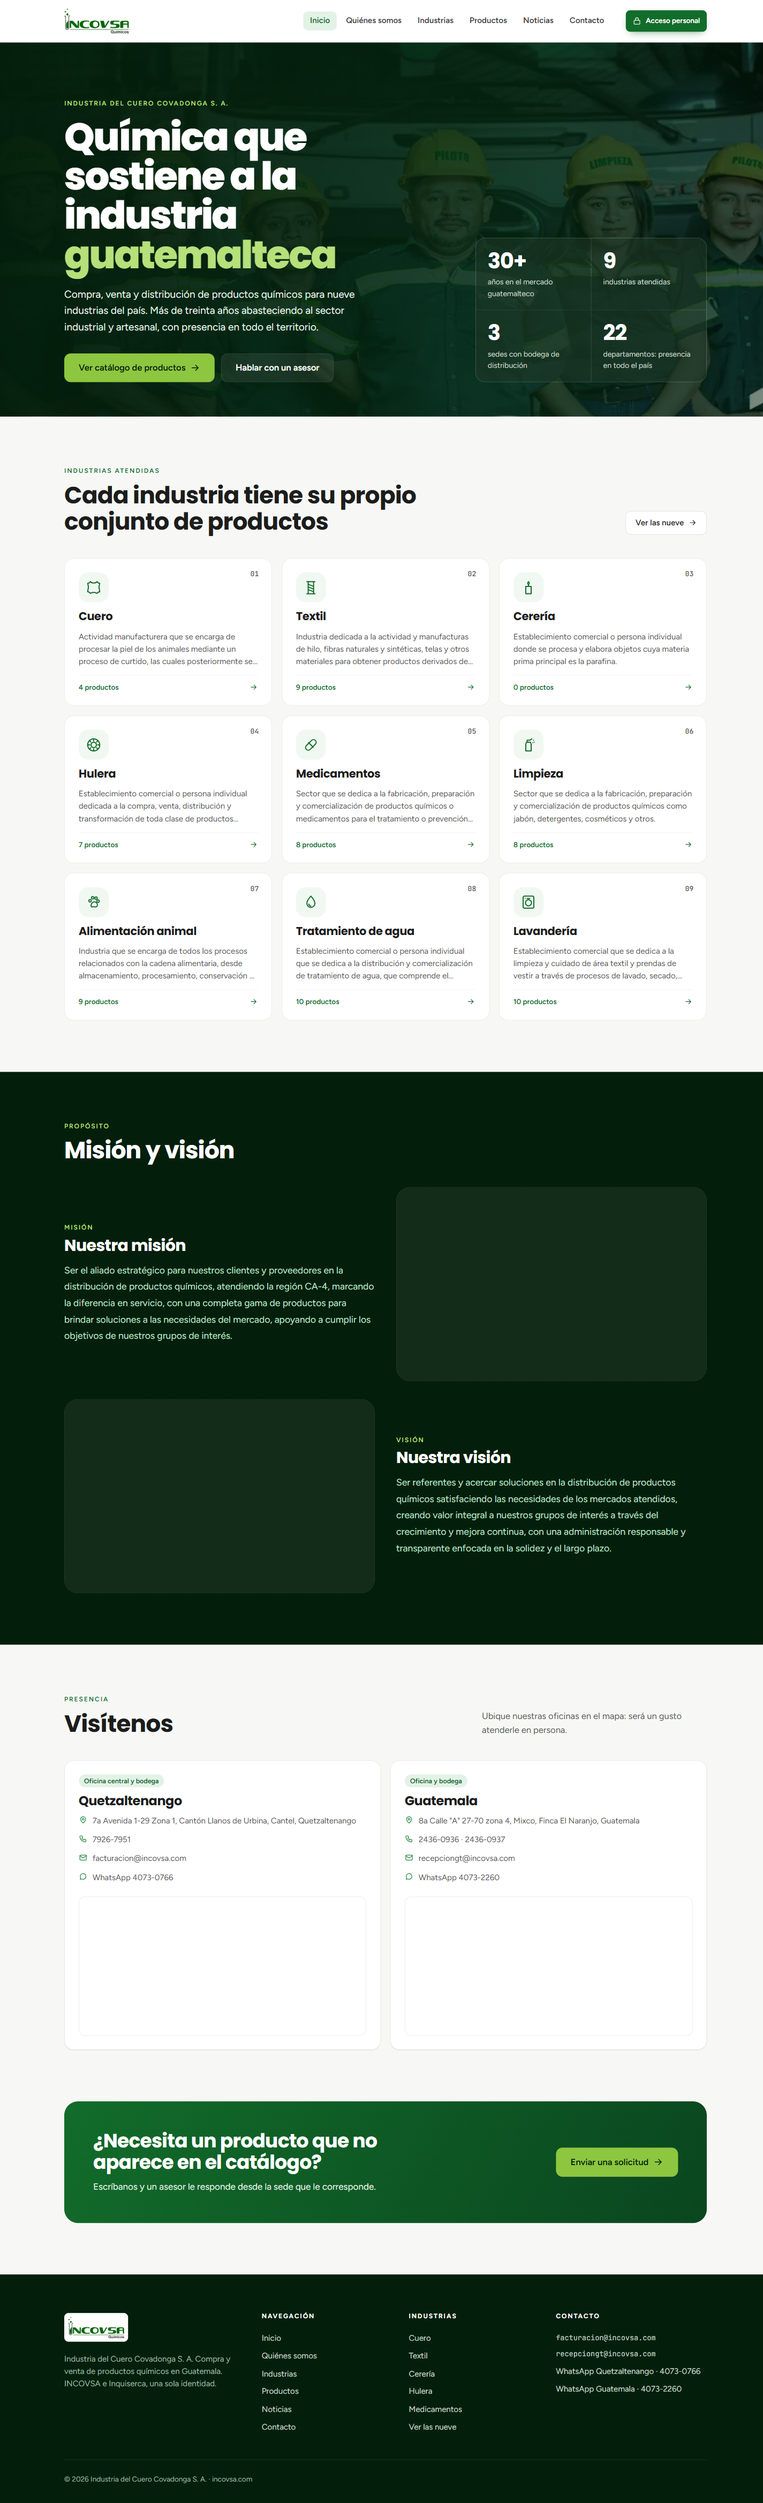
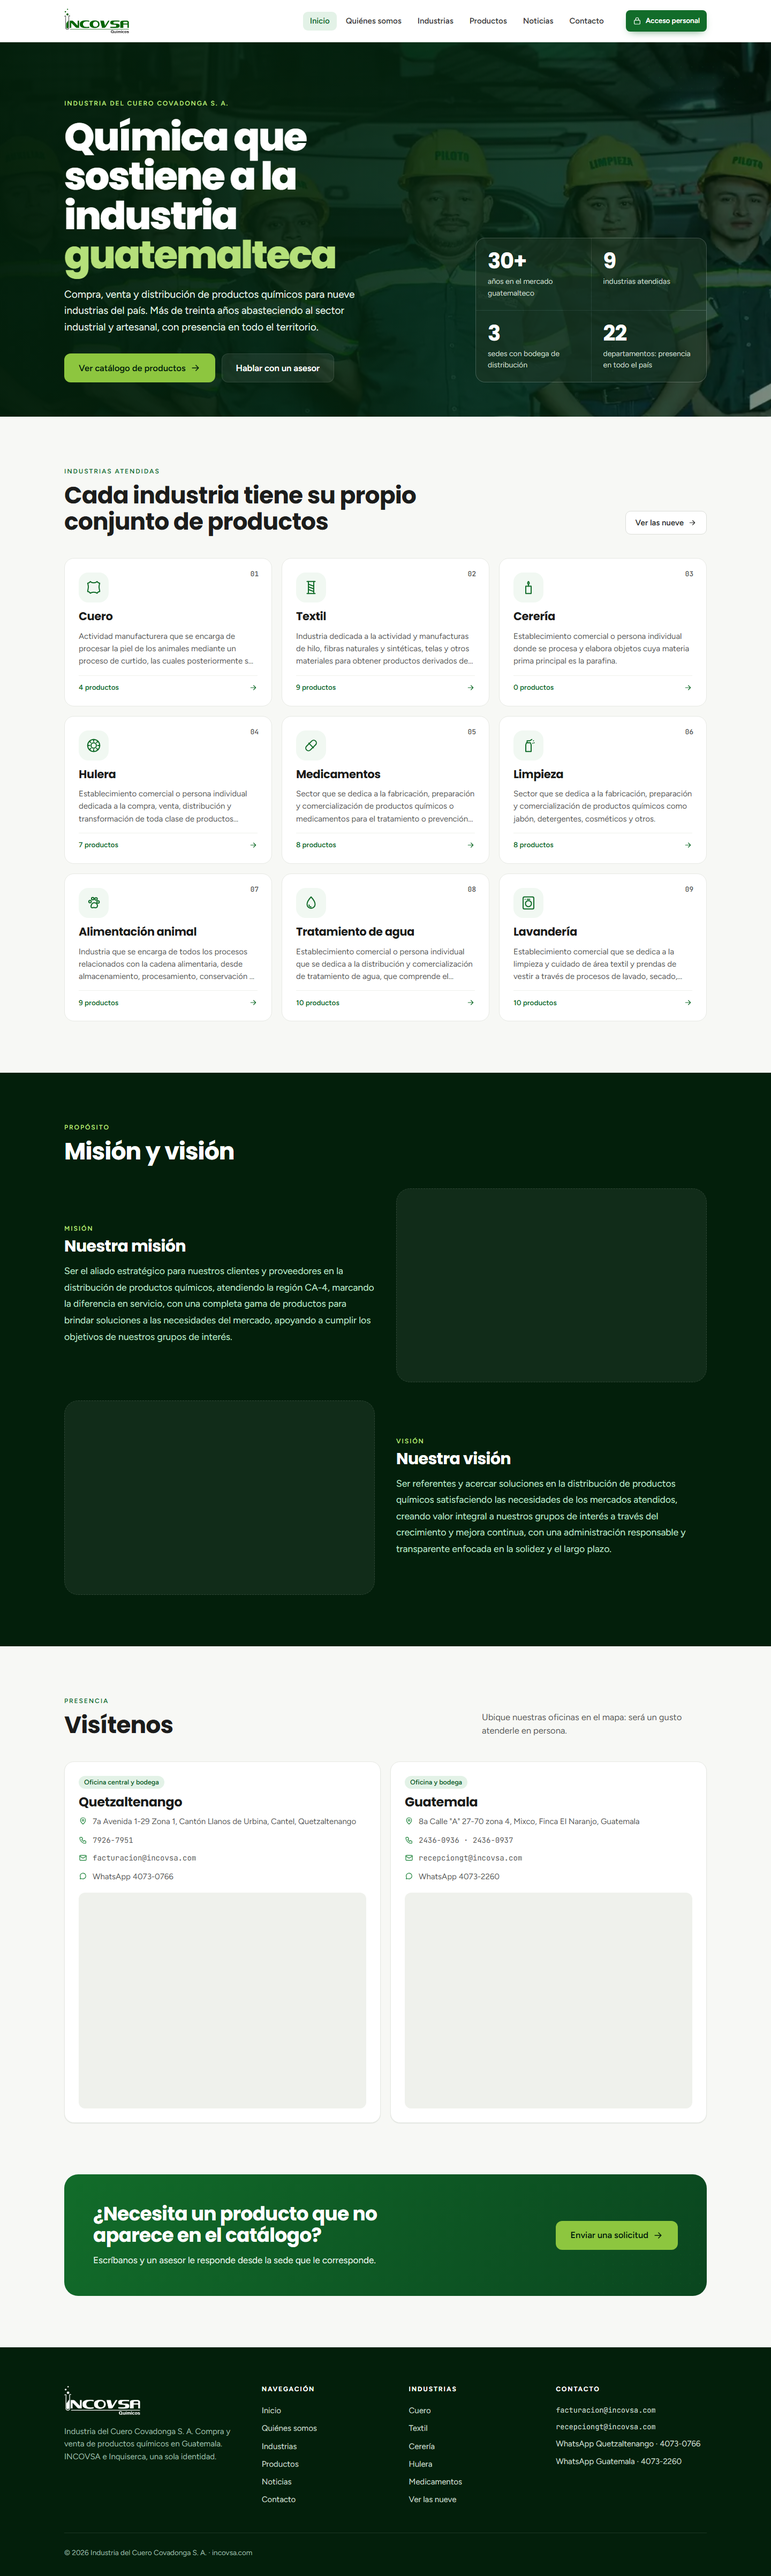
docs(sitio): repetir las capturas de Inicio tras las correcciones (DM-02)

diff --git a/pruebas-e2e/sitio/evidencias/README.md b/pruebas-e2e/sitio/evidencias/README.md
@@ -13,7 +13,7 @@ Se contrastaron navegación, textos, orden de las secciones, las nueve industria
 
 ## Diferencias previstas por las especificaciones
 
-- El pie usa el mismo logotipo de la cabecera sobre placa clara, según DM-02. No incluye la leyenda académica ni el botón de demostración del prototipo.
+- El pie usa, como el prototipo (`sitio.js` › `logoOscuro()`), el logotipo blanco sobre el verde mientras no se suba otro desde el panel; con uno subido, ese mismo sobre una placa clara. Las capturas de la aplicación se repitieron el 19/10 tras corregirlo, junto con los mapas en proporción 4:3 y el teléfono y el correo en letra monoespaciada. No incluye la leyenda académica ni el botón de demostración del prototipo.
 - Los recuentos de productos por industria salen de la relación del catálogo en la base, no de la lista fija del prototipo.
 - Los textos pequeños usan `--g600` donde el gris del prototipo no alcanza el contraste de RNF-08, siguiendo el criterio de JG-05. Los estilos están limitados a `.sitio` y usan los tokens existentes.
 - La cifra de tres sedes se conserva por la excepción explícita de `specs/05`; las tarjetas y el pie solo muestran las oficinas de Quetzaltenango y Guatemala.
